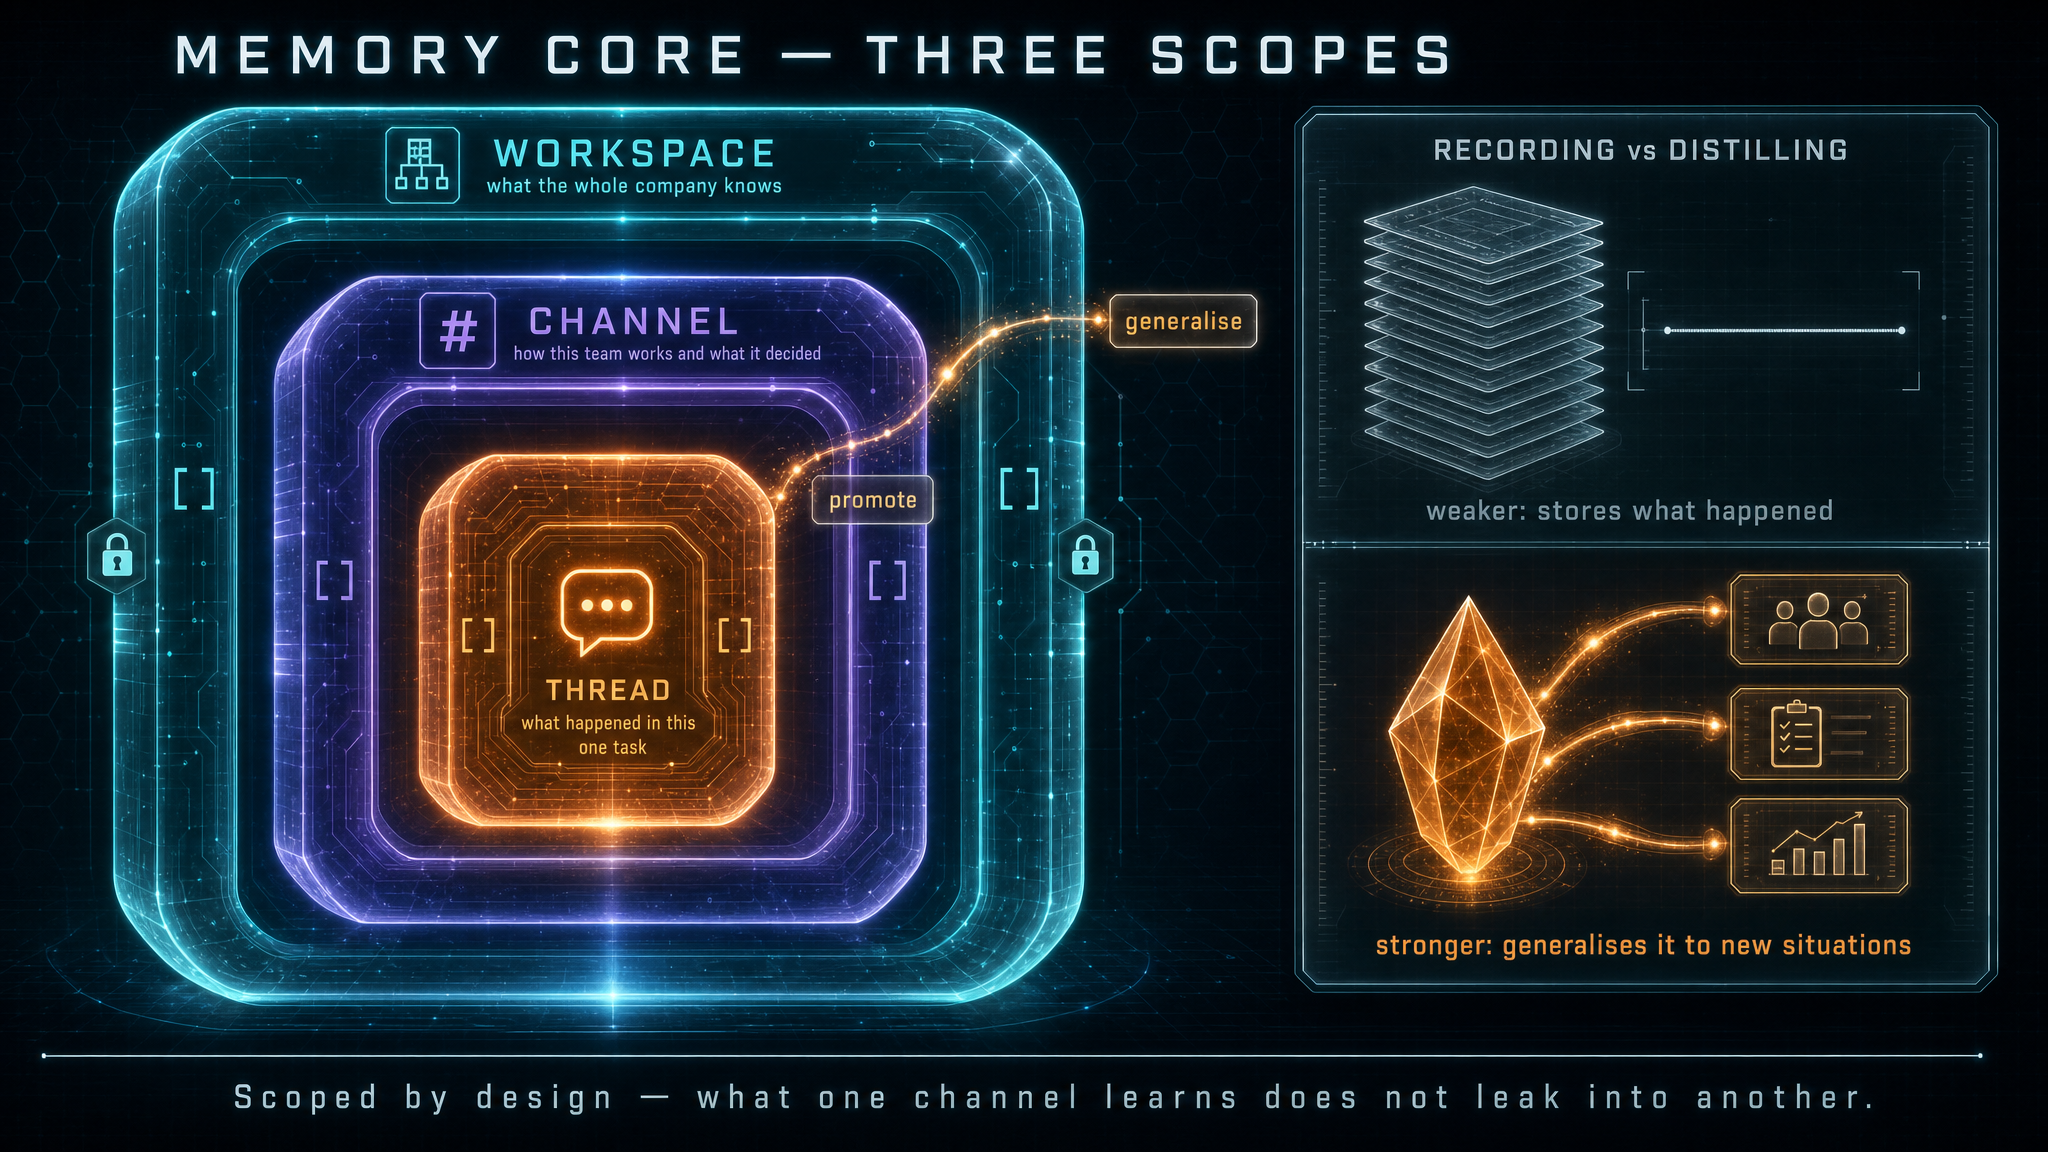
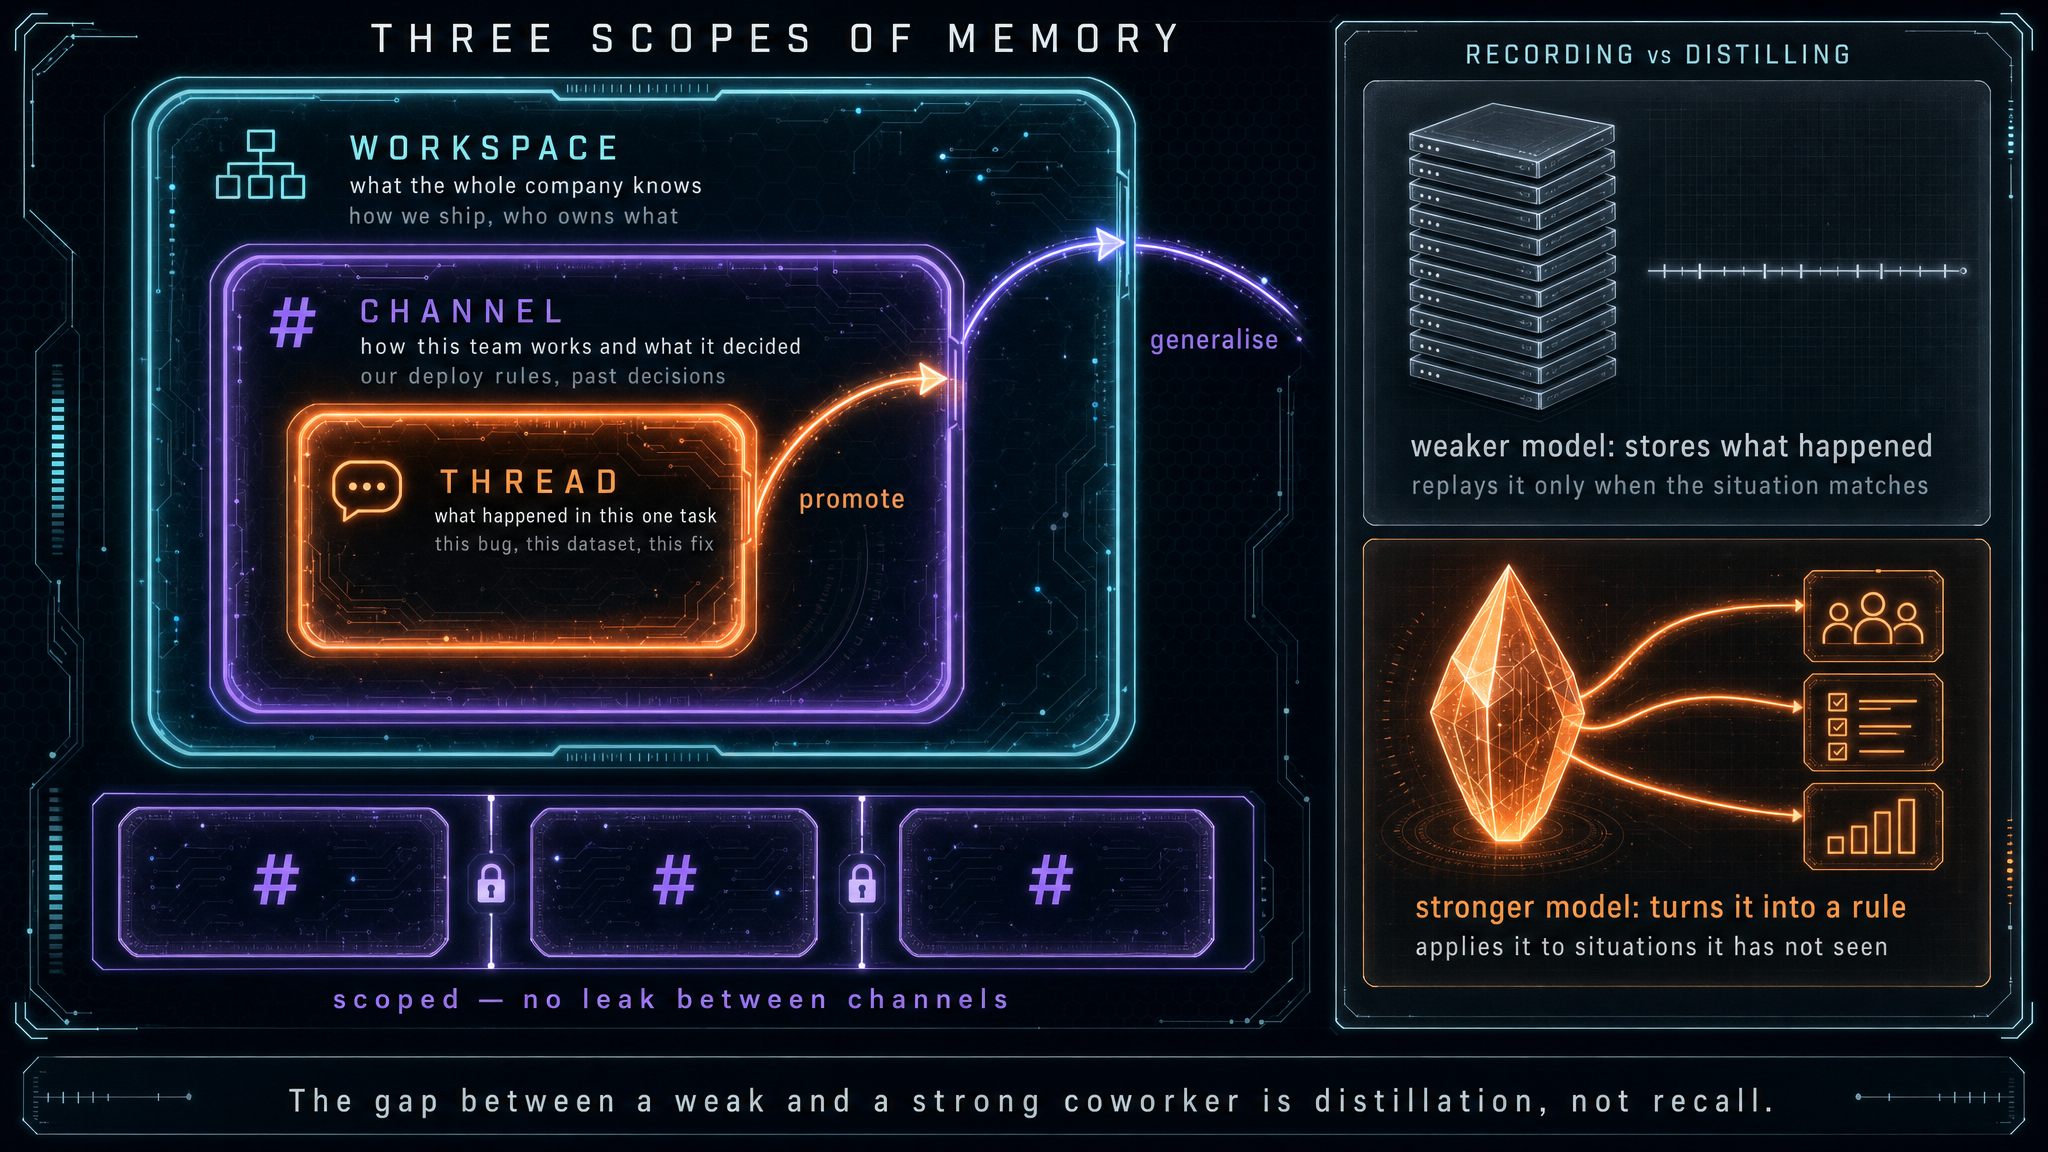
chore: sync artefacts

diff --git a/artefacts/index.html b/artefacts/index.html
@@ -398,7 +398,6 @@
                         <li><a href="claude-tag/claude-tag-05-context-layer.png">The context layer</a></li>
                         <li><a href="claude-tag/claude-tag-06-memory-layer.png">Three scopes of memory</a></li>
                         <li><a href="claude-tag/claude-tag-07-request-lifecycle.png">One mention, end to end</a></li>
-                        <li><a href="claude-tag/claude-tag-08-context-field.png">The context layer (dark variant)</a></li>
                         <li><a href="claude-tag/claude-tag-08-proactive-context.png">Ambient context, unprompted work</a></li>
                         <li><a href="claude-tag/claude-tag-09-memory-core.png">Memory core (dark variant)</a></li>
                     </ul>
